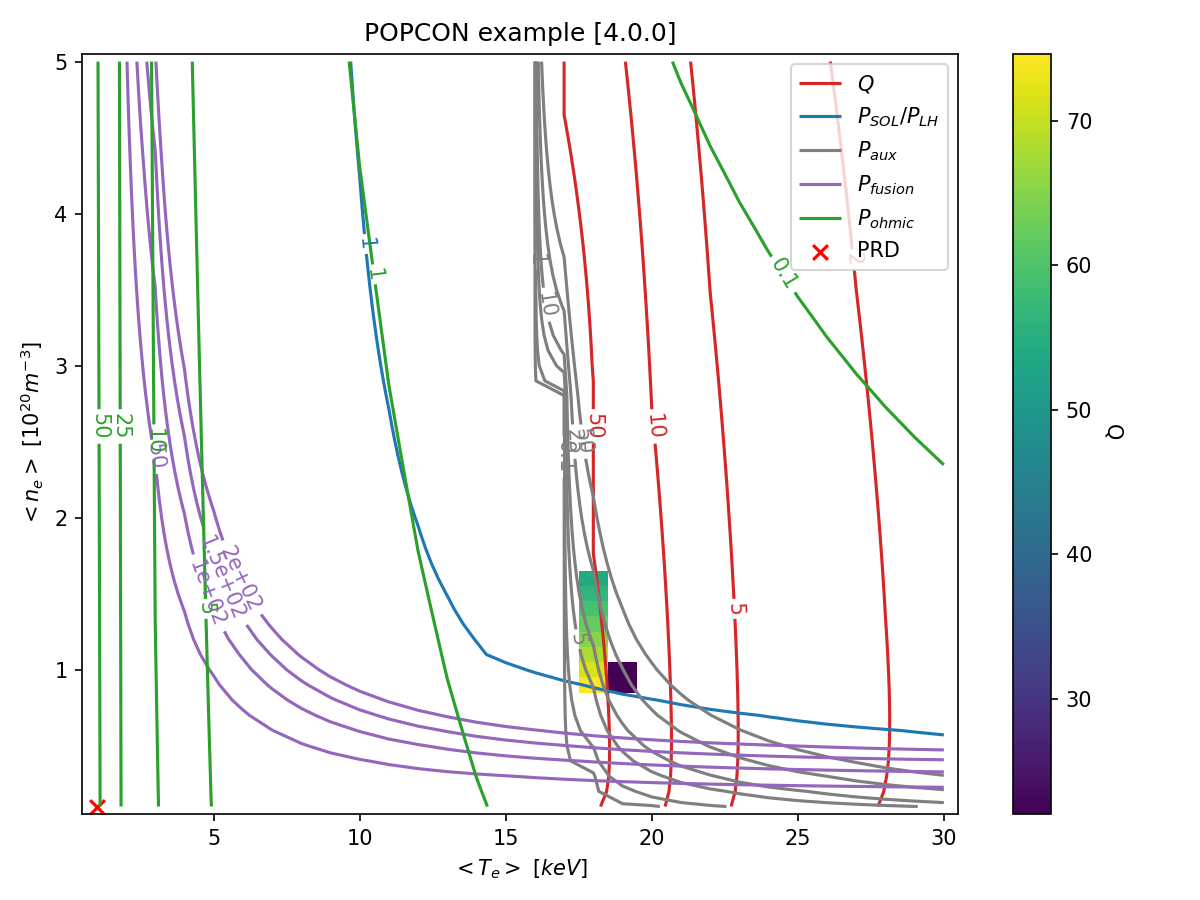
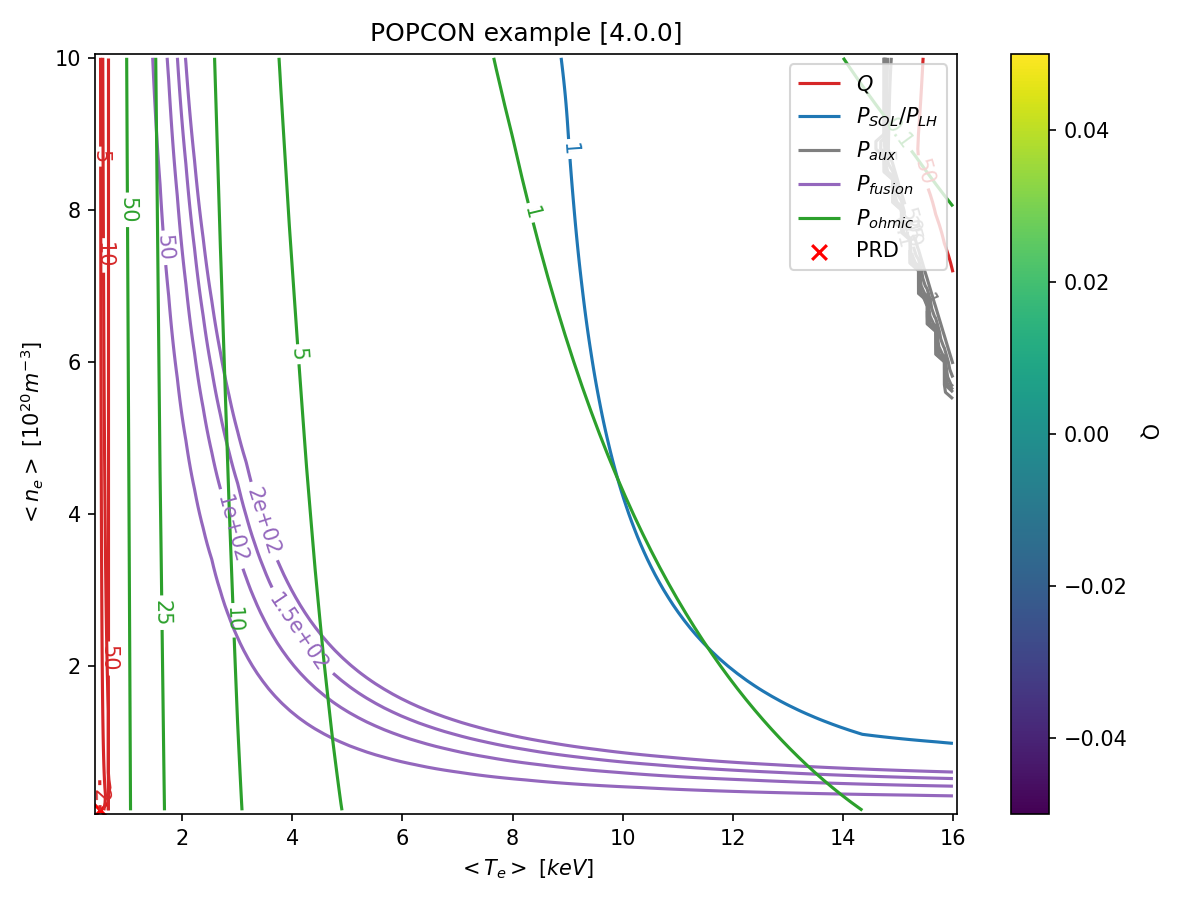
Made script to compute temp and density values for a

diff --git a/example_cases/ARCH/frank_cfspopcon_profile_matching.py b/example_cases/ARCH/frank_cfspopcon_profile_matching.py
@@ -50,8 +50,8 @@ def find_matching_cfspopcon_profile():
     indices = {'Dens Profile': {'Dens Index': 0, 'Temp Index': 0}, 
                'Temp Profile': {'Dens Index': 0, 'Temp Index': 0}}
     profiles = None
-    for i in range(40):
-        for j in range(30):
+    for i in range(dataset['average_electron_density'].values.shape[0]):
+        for j in range(dataset['average_electron_temp'].values.shape[0]):
             profiles = get_profiles(i, j)
             new_density_diff = np.linalg.norm(profiles['cfspopcon']['density'] - profiles['frank']['density'])
             if new_density_diff < min_density_diff:
@@ -87,8 +87,8 @@ def plot_profiles():
 
 # Make a popcon
 def plot_popcon():
-    plot_style = cfspopcon.read_plot_style(os.path.join(os.getcwd(), "example_cases/ARCH/plot_popcon_arch.yaml"))
-    cfspopcon.plotting.make_plot(dataset, plot_style, points=points, title="POPCON example", output_dir=Path(os.path.join(os.getcwd(), "example_cases/ARCH")))
+    plot_style = cfspopcon.read_plot_style(os.path.join(os.getcwd(), "example_cases/SPARC_PRD/plot_popcon_creely.yaml"))
+    cfspopcon.plotting.make_plot(dataset, plot_style, points=points, title="POPCON example", output_dir=Path(os.path.join(os.getcwd(), "example_cases/SPARC_PRD")))
     plt.show()
 
 if __name__ == '__main__':
@@ -98,10 +98,10 @@ if __name__ == '__main__':
     rho = np.linspace(0, 1, num=npoints, endpoint=False)
     
     # Load input paramters from yaml file
-    input_parameters, algorithm, points = cfspopcon.read_case(os.path.join(os.getcwd(), "example_cases/ARCH/input_arch.yaml"))
+    input_parameters, algorithm, points = cfspopcon.read_case(os.path.join(os.getcwd(), "example_cases/SPARC_PRD/input_creely.yaml"))
     algorithm.validate_inputs(input_parameters)
     dataset = xr.Dataset(input_parameters)
     algorithm.update_dataset(dataset, in_place=True)
 
-    plot_profiles()
+    #plot_profiles()
     plot_popcon()

diff --git a/example_cases/ARCH/fixed_PSOL.py b/example_cases/ARCH/fixed_PSOL.py
@@ -1,0 +1,35 @@
+import xarray as xr
+import numpy as np
+import os
+import cfspopcon
+from cfspopcon.unit_handling import ureg
+import warnings
+from pint import UnitStrippedWarning
+
+warnings.filterwarnings("ignore", category=UnitStrippedWarning)
+
+# read in .yaml file
+input_file_path = os.path.join(os.getcwd(), "example_cases/ARCH/input_arch.yaml")
+input_parameters, algorithm, points = cfspopcon.read_case(input_file_path)
+algorithm.validate_inputs(input_parameters)
+dataset = xr.Dataset(input_parameters)
+algorithm.update_dataset(dataset, in_place=True)
+
+# For each i index in the density array and j index in the temp array, 
+# change impurity concentration and re-compute all quantities.
+# Then, add (i,j) to the "data" array.
+# This helps us obtain the density and temperature at which P_sol = target.
+
+target = 50
+P_sol_array = np.zeros((dataset['average_electron_density'].size, dataset['average_electron_temp'].size))
+
+for i in range(0, P_sol_array.shape[0]): # some elements have P_sol = 0, should we not count them?
+    for j in range(0, P_sol_array.shape[1]): # some elements have P_sol = 0, should we not count them?
+        diff = np.abs(dataset['P_sol'].values[i,j] - target)
+        while(np.abs(diff) > 1.0):
+            increment = np.sign(diff) * 1e-3 # Find a better formula for increment!! Very slow 😭
+            dataset['impurities'].values = ureg.Quantity(dataset['impurities'].values + increment, 'dimensionless')
+            algorithm.update_dataset(dataset, in_place=True) # Getting invalid arguments for logarithms for some reason.
+            print(dataset['P_sol'].values[i,j])
+            P_sol_array[i,j] = dataset['P_sol'].values[i,j]
+            diff = np.abs(dataset['P_sol'].values[i,j] - target)
